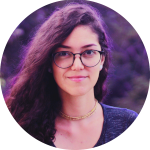
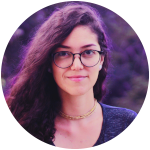
Adjust profile image

diff --git a/src/app/app.component.scss b/src/app/app.component.scss
@@ -34,14 +34,8 @@ a {
   }
 
   &__image {
-    display: flex;
-    justify-content: center;
-    align-items: center;
+    text-align: center;
     background-color: rgb(255, 255, 255);
-    border-radius: 80px;
-    width: 9.5em;
-    height: 9.5em;
-    margin: 1em;
   }
 
   &__title {
